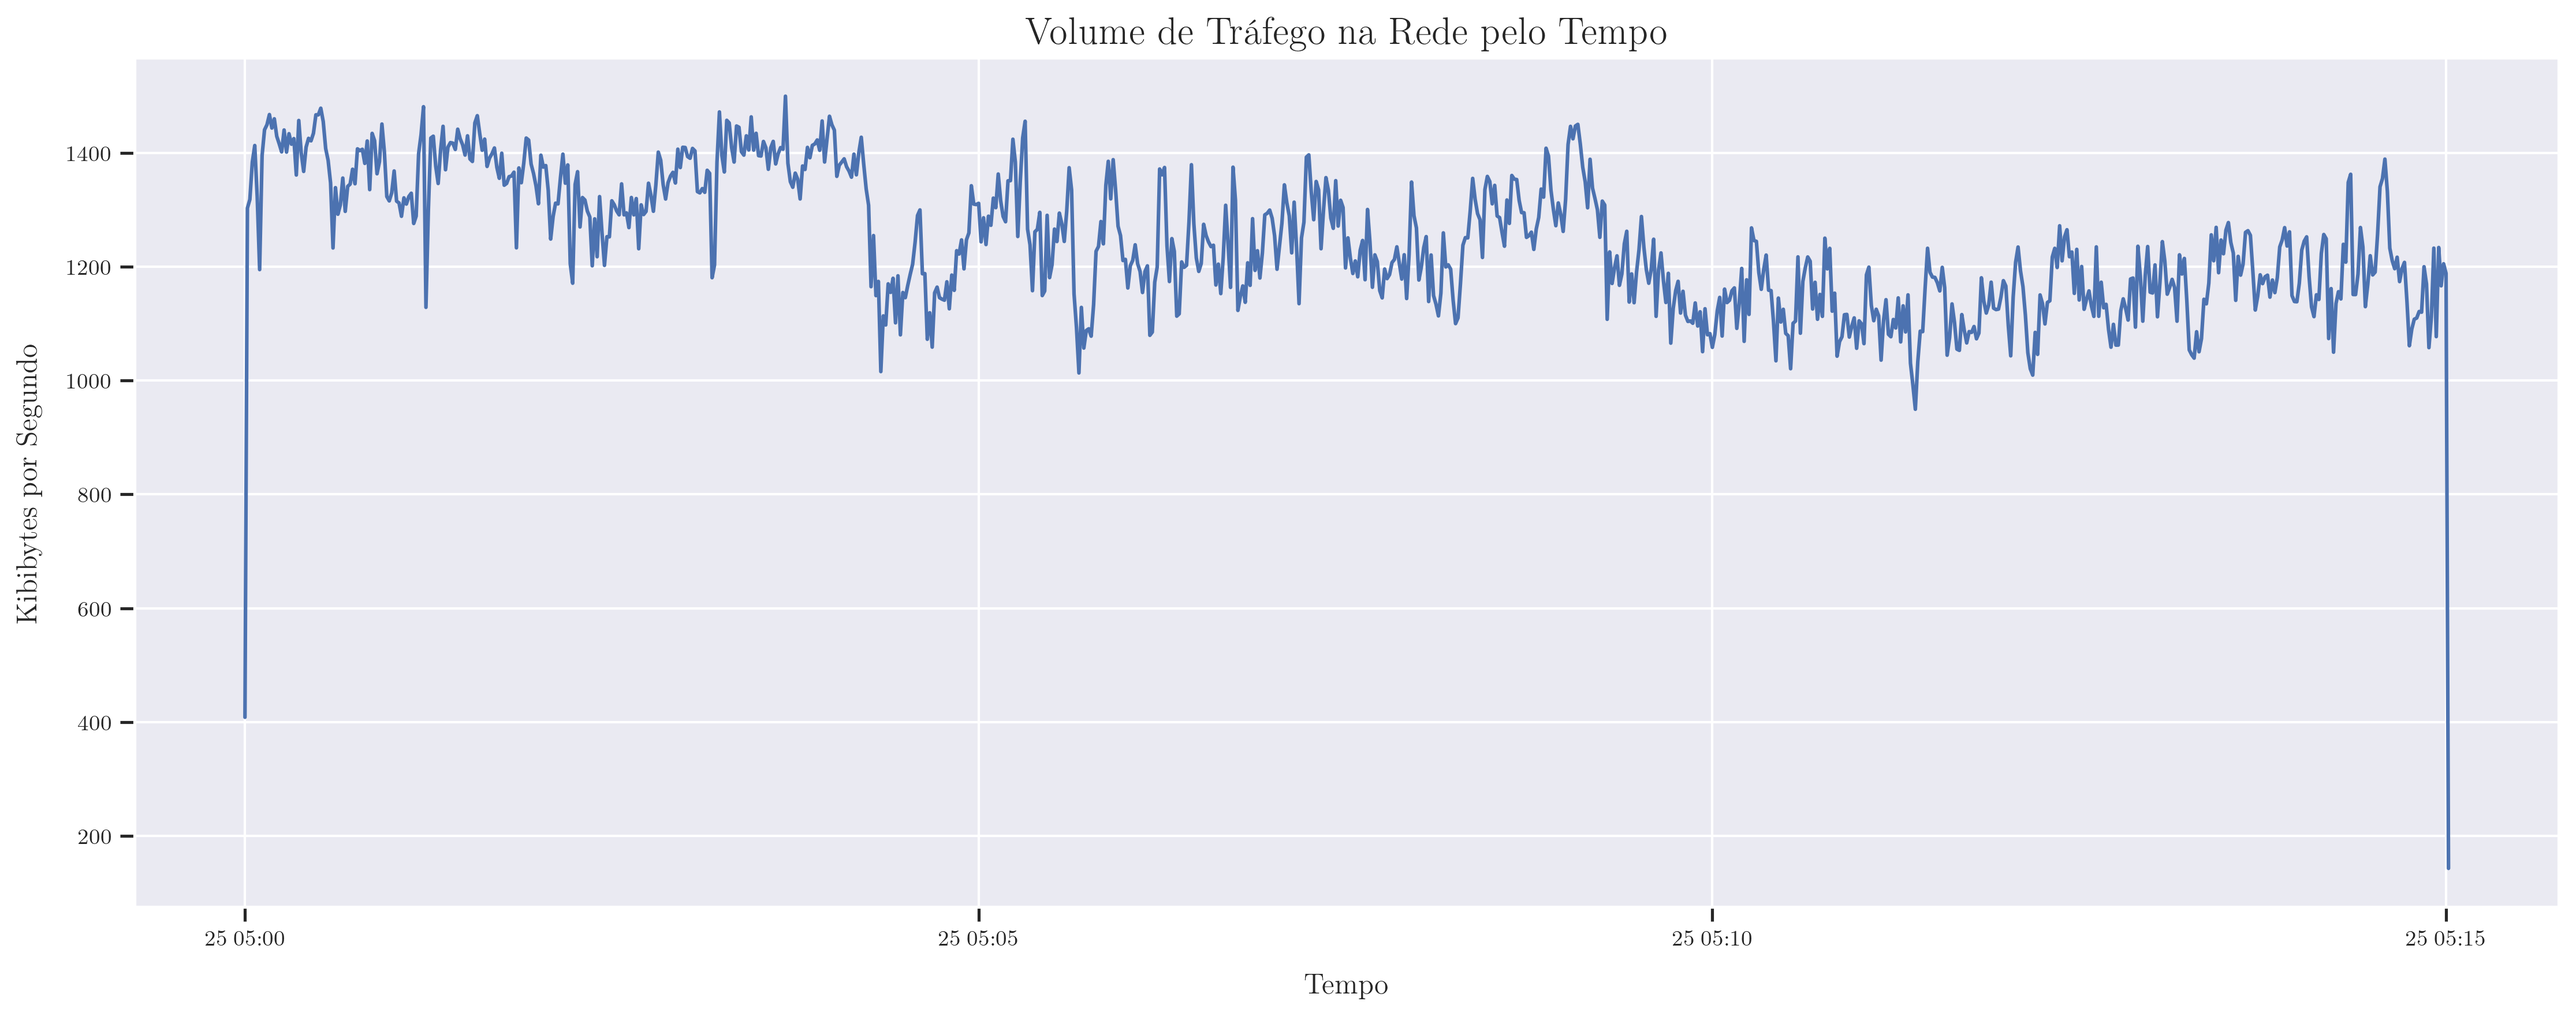
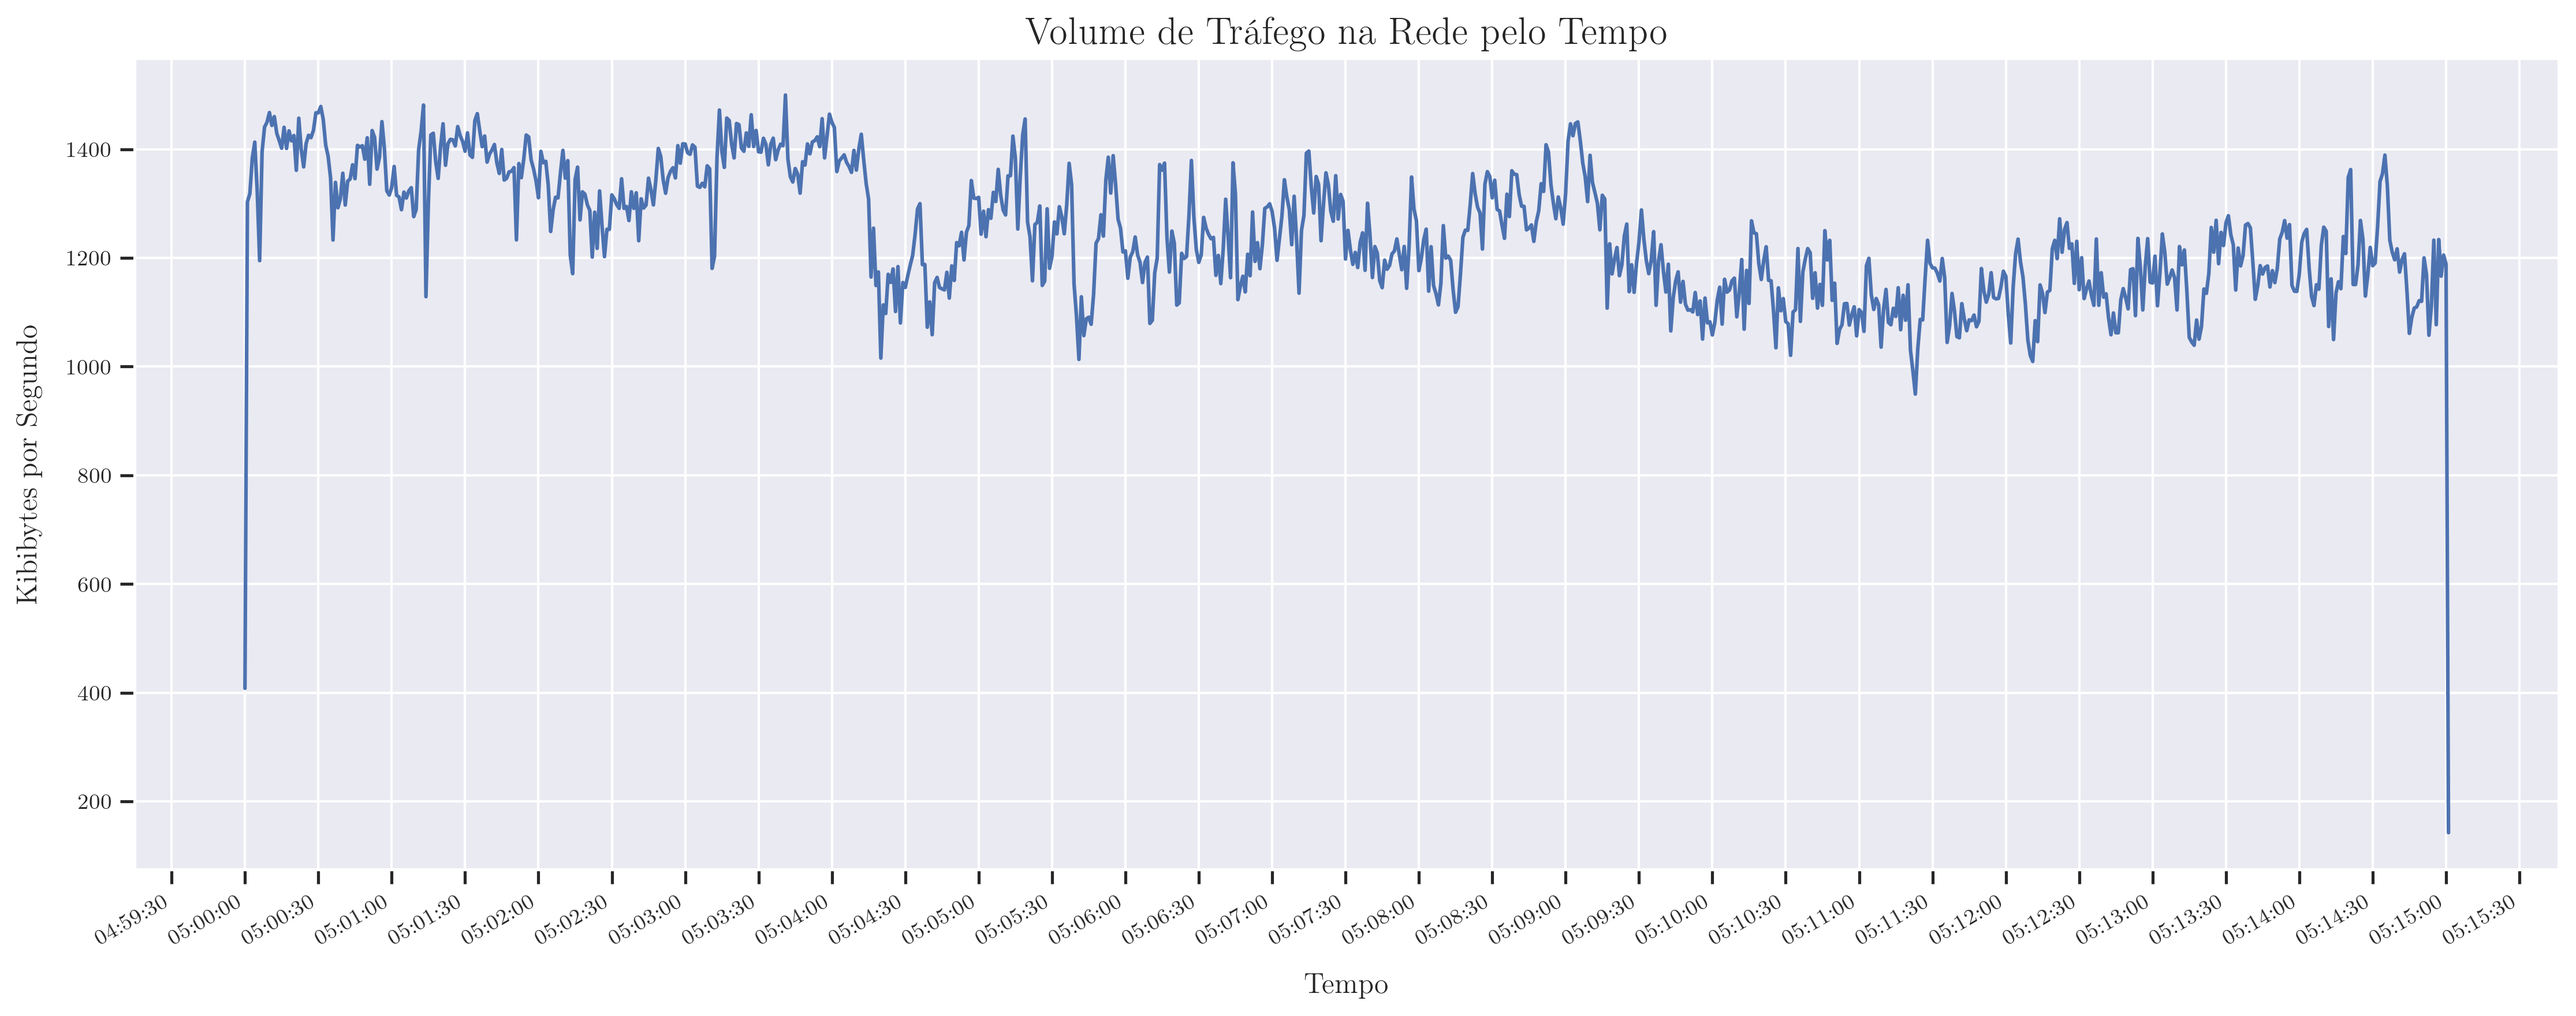
feat(analysis): finer time points

diff --git a/network_traffic_predictor/analysis.py b/network_traffic_predictor/analysis.py
@@ -12,6 +12,7 @@ from signal import SIGINT
 from typing import IO, Final
 
 # pyright: reportUnknownMemberType=false, reportUnknownArgumentType=false
+import matplotlib.dates as mdates
 import matplotlib.pyplot as plt
 import polars as pl
 import seaborn as sns
@@ -85,11 +86,15 @@ def _time_series(traffic_per_sec: pl.DataFrame, basename: Path, *, log: IO[str])
     """
     Simple time series plot.
     """
-    _ = plt.figure(figsize=(15, 6))
+    fig = plt.figure(figsize=(15, 6))
     _ = plt.plot(traffic_per_sec['Timestamp'], traffic_per_sec['bytes_per_second'] / 1024)
     _ = plt.title('Volume de Tráfego na Rede pelo Tempo', fontsize=16)
     _ = plt.xlabel('Tempo', fontsize=12)
     _ = plt.ylabel('Kibibytes por Segundo ', fontsize=12)
+
+    fig.axes[-1].xaxis.set_major_formatter(mdates.DateFormatter('%H:%M:%S'))
+    fig.axes[-1].xaxis.set_major_locator(mdates.SecondLocator(bysecond=(0, 30)))
+    fig.autofmt_xdate()  # auto-rotate date labels
 
     output_path = basename.parent / f'{basename.stem}.time_series.png'
     plt.savefig(output_path, dpi=300)
@@ -117,7 +122,11 @@ def _time_series_decomposition(traffic_per_sec: pl.DataFrame, basename: Path, *,
     _ = fig.axes[1].set_ylabel('Tendência')
     _ = fig.axes[2].set_ylabel('Sazonal')
     _ = fig.axes[3].set_ylabel('Residual')
-    _ = fig.axes[3].set_xlabel('Tempo')
+
+    _ = fig.axes[-1].set_xlabel('Tempo')
+    fig.axes[-1].xaxis.set_major_formatter(mdates.DateFormatter('%H:%M:%S'))
+    fig.axes[-1].xaxis.set_major_locator(mdates.SecondLocator(bysecond=(0, 30)))
+    fig.autofmt_xdate()  # auto-rotate date labels
     plt.tight_layout()
 
     output_path = basename.parent / f'{basename.stem}.decomposition.png'
